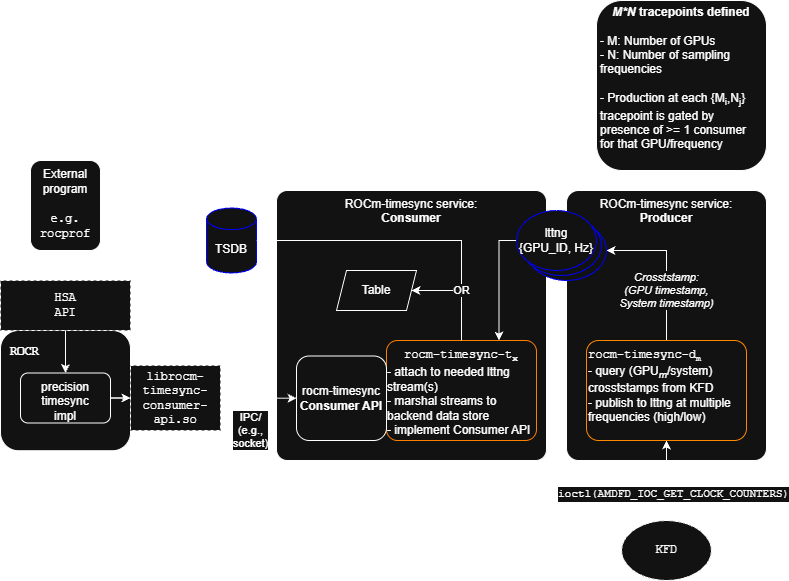
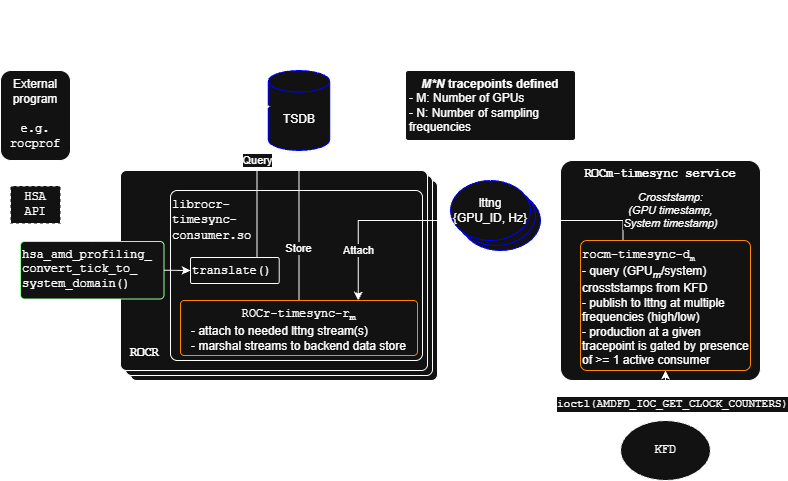
update imgs and readme

diff --git a/projects/rocm-timesync/README.md b/projects/rocm-timesync/README.md
@@ -9,19 +9,72 @@ A goal is to support alignment of timestamps across HSA agents with precision
 targets of 1 µs or less, in systems where appropriate HW mechanisms exist to
 allow this (e.g., PTP/PTM)
 
-### Background
+## PTP background
 
 TODO
 
 ## Overview
 
+The goal of this project is to support alignment of timnestamps generated from different time domains onto a single
+unified timeline with high precision (in the range of 10ns - 1us).
+
+The basic architecture for MI4xx generation systems is to take raw timestamps produced by the GPU and translate them
+onto the system's POSIX `CLOCK_REALTIME` timeline. A topic for future product generations is to consider adding a
+programmable real-time clock to the GPU which can then surface REALTIME aligned timestamps directly into SW, but this is 
+out of scope for MI4xx, and thus out of scope for this project at the moment.
+
+The primary challenge with performing GPU->realtime timestamp translation is that the adjust factor is not constant.
+This is owing to several reasons:
+- On dGPU configurations, CPU and GPU clocks are expected to drift independently
+- On PTP enabled systems, the node's realtime clock does not tick based solely on CPU, but rather is disciplined by a
+  network clocksource.
+
+For this reason, our approach is constantly sample synchronized GPU/realtime timestamps ("crosststamps") and use them to perform
+translations between clock domains when needed.
+
+A notional workflow we need to support is something like this:
+1. User runs a PTP-enabled workload via rocprof
+2. The spawned ROCR instance ensures that a dedicated thread or threads are established to do the following:
+    - Collect crosststamps from KFD at some high frequency needed to support PTP-level precision (e.g., 100Hz)
+    - Store crosststamps in a persistent storage of some form (e.g., a time-series database or table). The storage must
+      support subsequent querying for timestamp translation.
+    - **Note: whether these operations are done by the same or separate threads, whether those threads are part of the
+      ROCr instance or a separate system daemon(s), and how persistent storage is managed are design considerations we
+      will elaborate on.**
+3. Kernel dispatch/completion events produced by the workload, which include raw GPU timestamps, are surfaced into rocprof
+5. rocprof calls into ROCR through HSA API to convert these raw GPU timestamps to the system/realtime timeline (e.g.,
+via something like
+[hsa_amd_profiling_convert_tick_to_system_domain](https://github.com/ROCm/rocm-systems/blob/users/bkocolos/precision-time/projects/rocr-runtime/runtime/hsa-runtime/inc/hsa_ext_amd.h#L999)
+6. ROCR's implementation of this API vectors into ROCm timesync, which queries the persistent timestamp storage backend
+with the provided GPU timestamp to produce the translation offset to realtime.
+
 ## Architecture
+
+There are multiple ways to design this system. Some major questions to answer include:
+- Which thread is responsible for producing crosststamps?
+- Which thread is responsbile for storing crosststamps in persistent storage?
+- Are these threads part of the same process or different processes?
+- Are these threads part of the ROCR process or a dedicated ROCM timesync process(es)?
+- What policy (or policies) are in place regarding regarding sampling rates and long-term persistence of timestamp data?
+  Are these configurable or static?
+
+We discuss two different models that land at different points in this design space
 
 ### In-process
 
+The simplest design is to simply extend ROCr with mechanisms to measure, store, and query crosststamps. The diagram
+below illustrates the process
+
 ![](doc/img/in-process.png)
 
+This design has the following properties:
+- 
+
+### Out-of-process production, in-process storage
+
 ### Out-of-process
+
+Production done by dedicated thread, ROCr consumes and stores in a shared instance  
 
 ![](doc/img/out-of-process.png)
 
